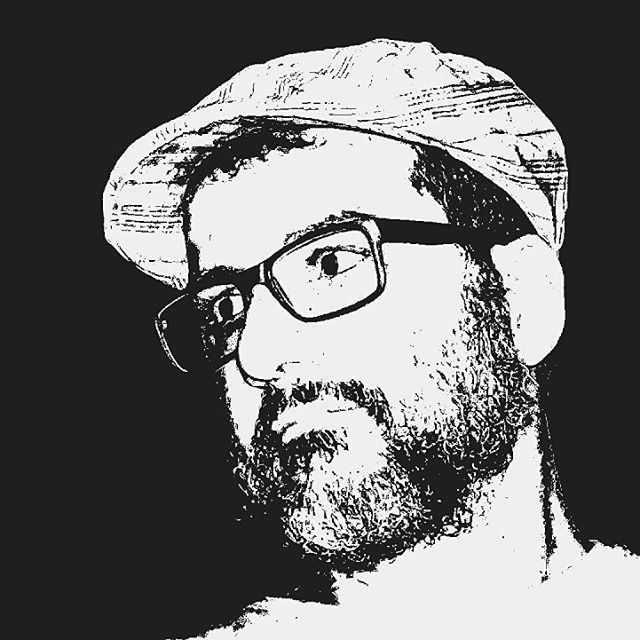
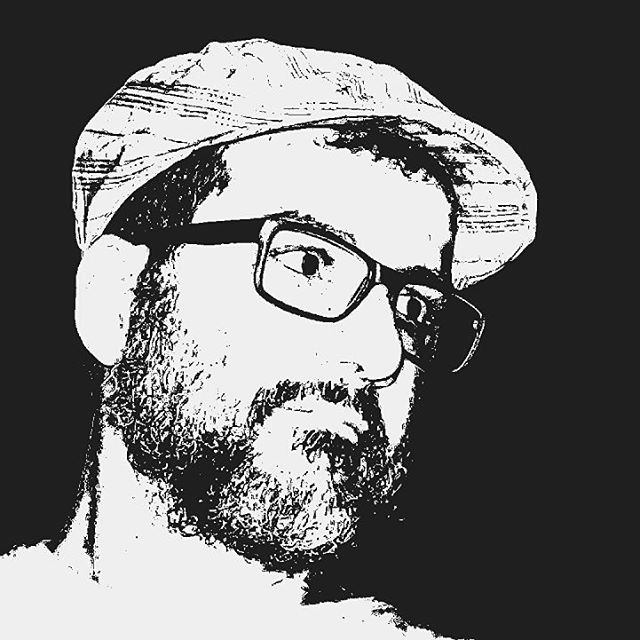
fnaufel published a site update

diff --git a/pt/post/2020-02-08-planner-atacando-uma-coceira/index.html b/pt/post/2020-02-08-planner-atacando-uma-coceira/index.html
@@ -837,7 +837,7 @@ Em A Catedral e o Bazar, Eric Raymond diz que
   <div class="media author-card content-widget-hr">
     
       
-      <img class="avatar mr-3 avatar-circle" src="/site/pt/authors/admin/avatar_hu0faa7b9d58fc1a1bbc72b4f5086e1374_68762_270x270_fill_q75_box_center.jpg" alt="Avatar">
+      <img class="avatar mr-3 avatar-circle" src="/site/pt/authors/admin/avatar_hubfac38b67378205bd2f29f9d4c9bca0e_74752_270x270_fill_q75_box_center.jpg" alt="Avatar">
     
 
     <div class="media-body">

diff --git a/en/authors/admin/index.html b/en/authors/admin/index.html
@@ -493,7 +493,7 @@
 
       
       
-      <img class="avatar avatar-circle" src="/site/en/authors/admin/avatar_hu0faa7b9d58fc1a1bbc72b4f5086e1374_68762_270x270_fill_q75_box_center.jpg" alt="Avatar">
+      <img class="avatar avatar-circle" src="/site/en/authors/admin/avatar_hubfac38b67378205bd2f29f9d4c9bca0e_74752_270x270_fill_q75_box_center.jpg" alt="Avatar">
       
 
       <div class="portrait-title">

diff --git a/en/index.html b/en/index.html
@@ -554,7 +554,7 @@
 
       
       
-      <img class="avatar avatar-circle" src="/site/en/authors/admin/avatar_hu0faa7b9d58fc1a1bbc72b4f5086e1374_68762_270x270_fill_q75_box_center.jpg" alt="Avatar">
+      <img class="avatar avatar-circle" src="/site/en/authors/admin/avatar_hubfac38b67378205bd2f29f9d4c9bca0e_74752_270x270_fill_q75_box_center.jpg" alt="Avatar">
       
 
       <div class="portrait-title">

diff --git a/pt/authors/admin/index.html b/pt/authors/admin/index.html
@@ -535,7 +535,7 @@
 
       
       
-      <img class="avatar avatar-circle" src="/site/pt/authors/admin/avatar_hu0faa7b9d58fc1a1bbc72b4f5086e1374_68762_270x270_fill_q75_box_center.jpg" alt="Avatar">
+      <img class="avatar avatar-circle" src="/site/pt/authors/admin/avatar_hubfac38b67378205bd2f29f9d4c9bca0e_74752_270x270_fill_q75_box_center.jpg" alt="Avatar">
       
 
       <div class="portrait-title">

diff --git a/pt/index.html b/pt/index.html
@@ -596,7 +596,7 @@
 
       
       
-      <img class="avatar avatar-circle" src="/site/pt/authors/admin/avatar_hu0faa7b9d58fc1a1bbc72b4f5086e1374_68762_270x270_fill_q75_box_center.jpg" alt="Avatar">
+      <img class="avatar avatar-circle" src="/site/pt/authors/admin/avatar_hubfac38b67378205bd2f29f9d4c9bca0e_74752_270x270_fill_q75_box_center.jpg" alt="Avatar">
       
 
       <div class="portrait-title">
